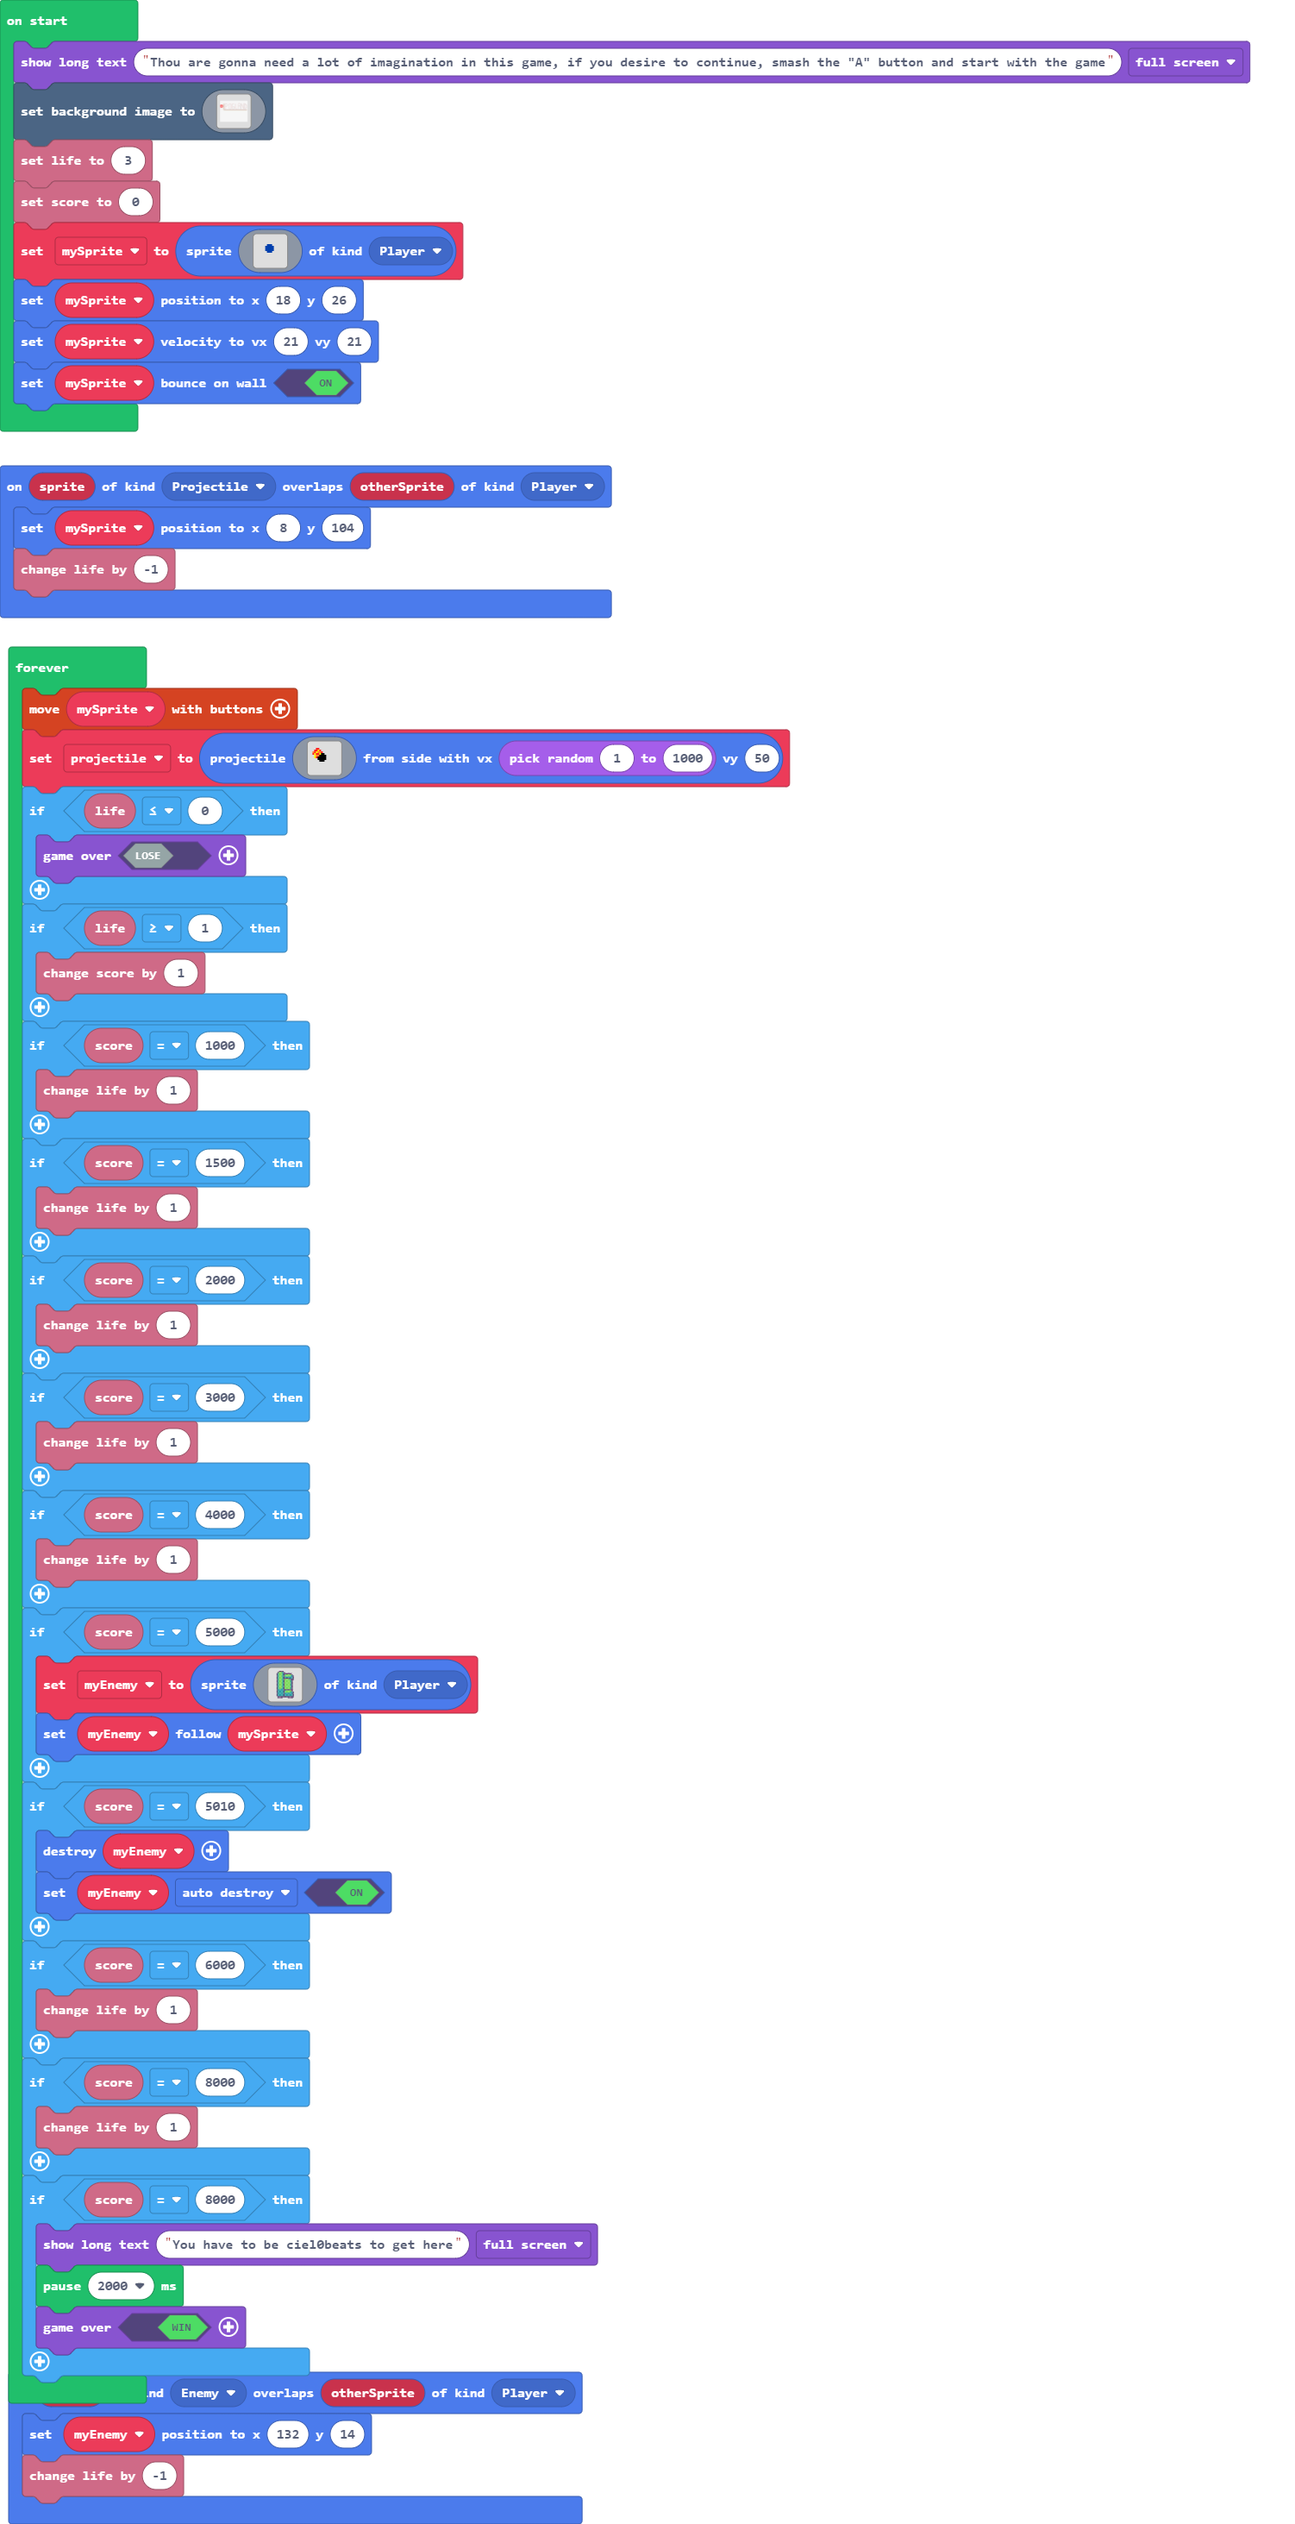
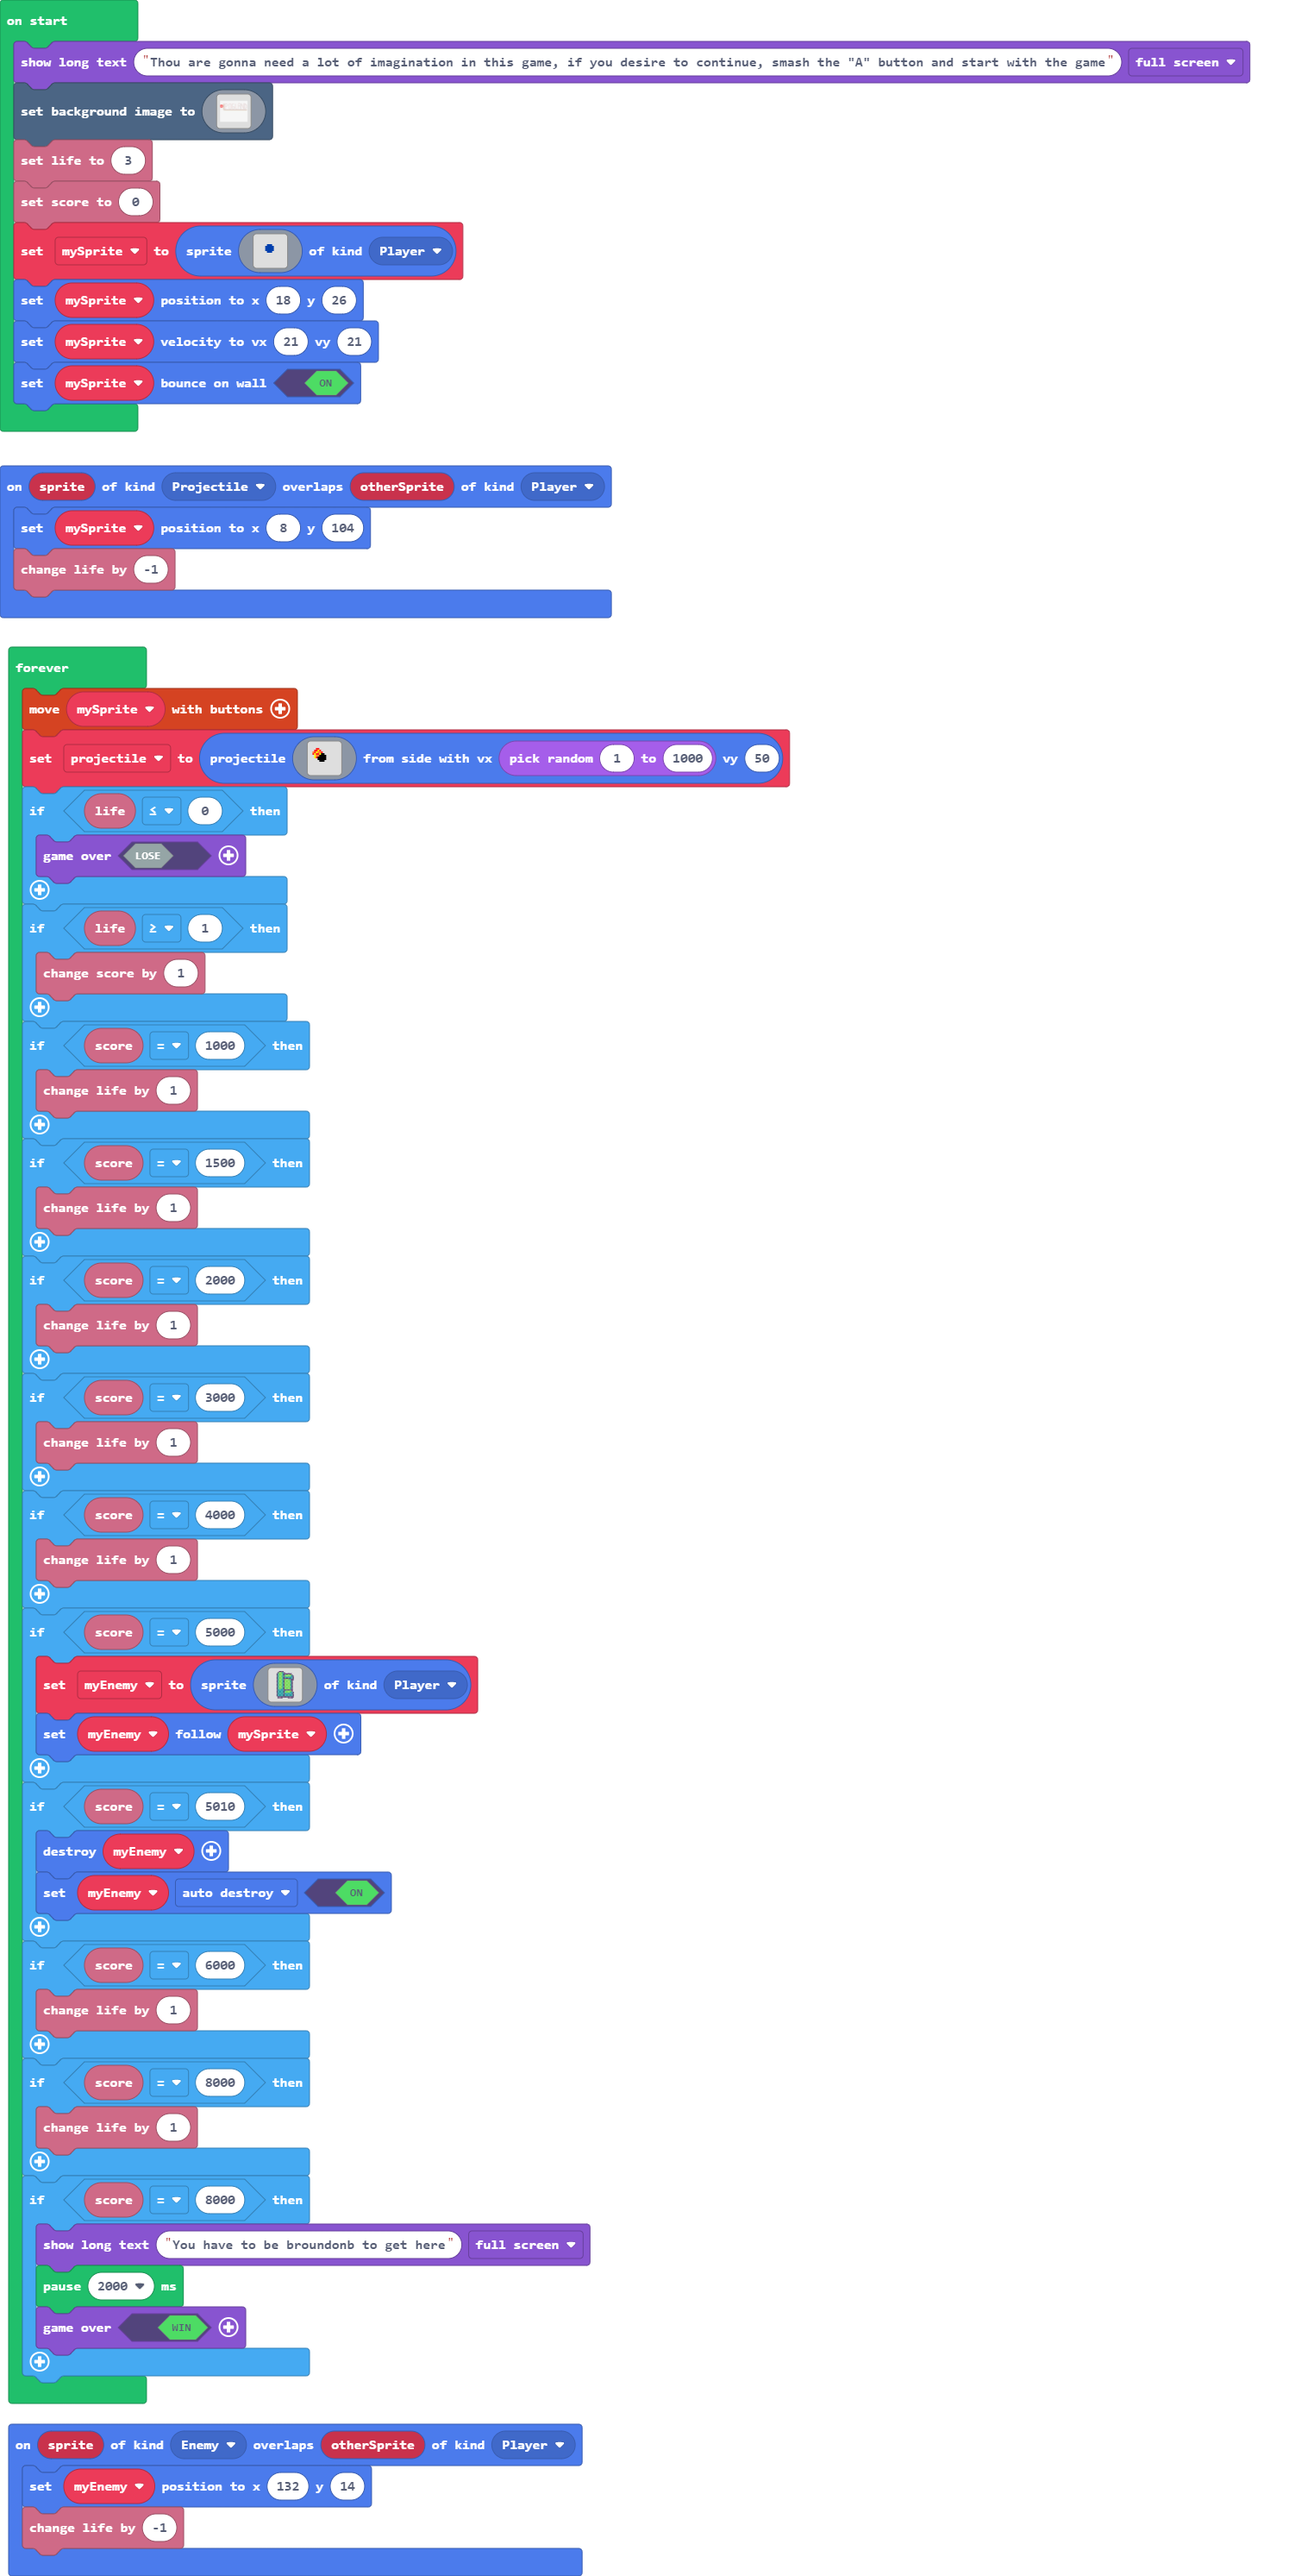
Changes to end text message

Changed region(s): [[0.0, 0.0, 0.8575, 0.9952], [0.8881, 0.0, 0.9494, 0.0311]]

diff --git a/main.ts b/main.ts
@@ -115,7 +115,7 @@ forever(function () {
         info.changeLifeBy(1)
     }
     if (info.score() == 8000) {
-        game.showLongText("You have to be ciel0beats to get here", DialogLayout.Full)
+        game.showLongText("You have to be broundonb to get here", DialogLayout.Full)
         pause(2000)
         game.over(true)
     }
